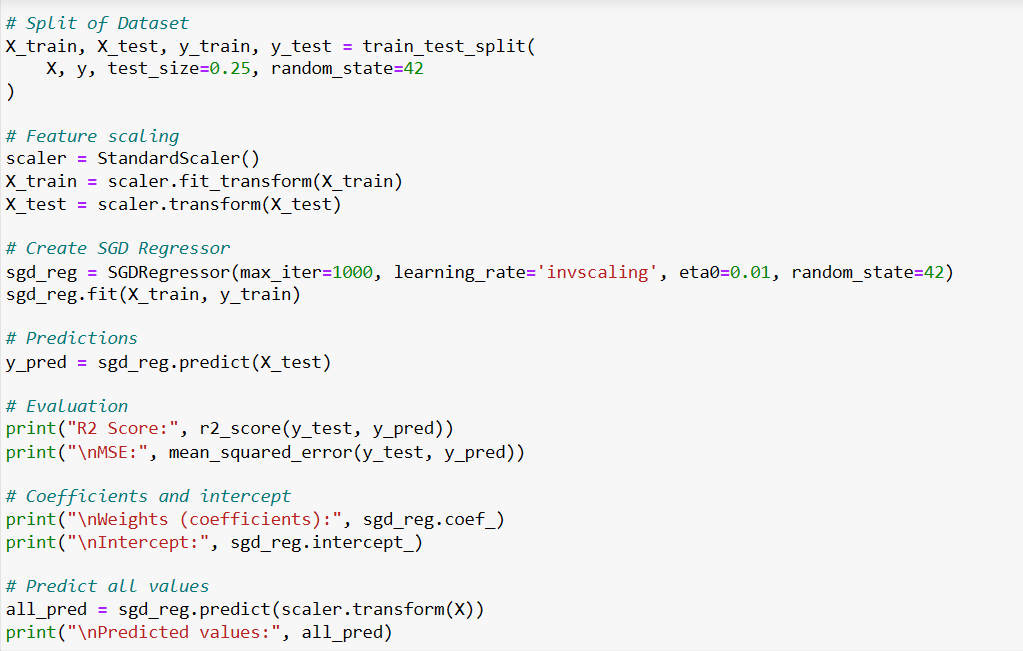
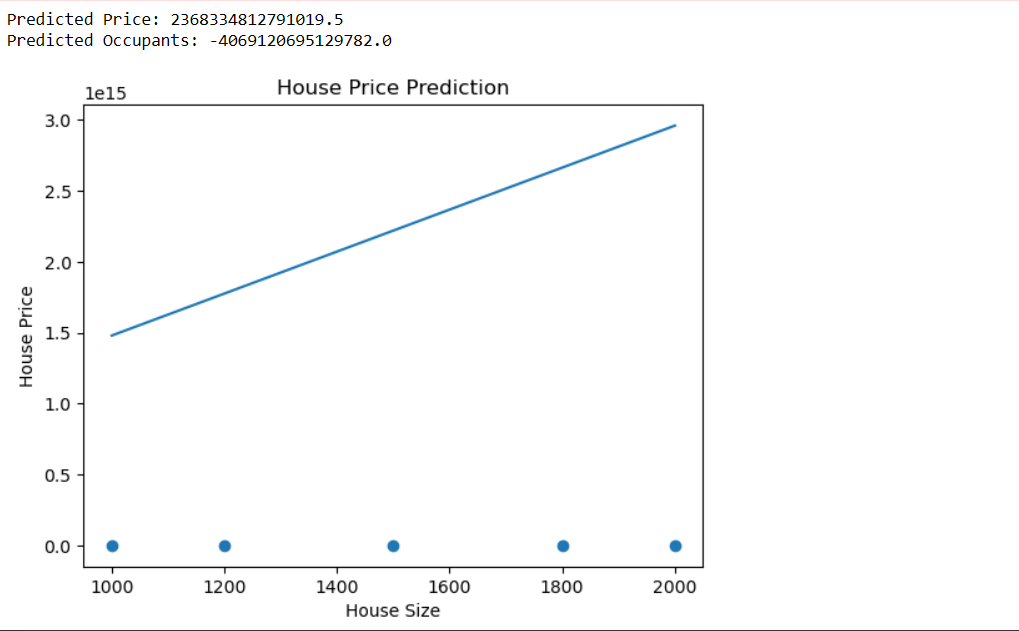
success

diff --git a/README.md b/README.md
@@ -48,67 +48,52 @@ Program to implement the multivariate linear regression model for predicting the
 
 # Ex:No 4
 #Manual Implementation using Numpy
-import numpy as np
-
-# ------------------------------
-# Step 1: Sample dataset
-# ------------------------------
-# Features: [Hours Studied, Attendance, Previous Marks]
-# Features and target
-X = np.array([
-    [2, 80, 50],
-    [3, 60, 40],
-    [5, 90, 70],
-    [7, 85, 80],
-    [9, 95, 90]
-])
-# Target: Marks Scored
-y = np.array([50, 45, 70, 80, 95])
-
-#Using scikit-learn SGDRegressor
-from sklearn.model_selection import train_test_split
+import pandas as pd
+import matplotlib.pyplot as plt
 from sklearn.linear_model import SGDRegressor
-from sklearn.preprocessing import StandardScaler
-from sklearn.metrics import r2_score, mean_squared_error
+from sklearn.multioutput import MultiOutputRegressor
 
-# Features and target
-X = np.array([
-    [2, 80, 50],
-    [3, 60, 40],
-    [5, 90, 70],
-    [7, 85, 80],
-    [9, 95, 90]
-])
-y = np.array([50, 45, 70, 80, 95])
+data = {
+    'Size': [1000, 1200, 1500, 1800, 2000],
+    'Bedrooms': [2, 2, 3, 3, 4],
+    'Price': [300000, 350000, 400000, 450000, 500000],
+    'Occupants': [2, 3, 4, 5, 6]
+}
 
-# Split of Dataset
-X_train, X_test, y_train, y_test = train_test_split(
-    X, y, test_size=0.25, random_state=42
-)
+df = pd.DataFrame(data)
 
-# Feature scaling
-scaler = StandardScaler()
-X_train = scaler.fit_transform(X_train)
-X_test = scaler.transform(X_test)
+X = df[['Size', 'Bedrooms']]
 
-# Create SGD Regressor
-sgd_reg = SGDRegressor(max_iter=1000, learning_rate='invscaling', eta0=0.01, random_state=42)
-sgd_reg.fit(X_train, y_train)
+y = df[['Price', 'Occupants']]
 
-# Predictions
-y_pred = sgd_reg.predict(X_test)
+model = MultiOutputRegressor(SGDRegressor())
 
-# Evaluation
-print("R2 Score:", r2_score(y_test, y_pred))
-print("\nMSE:", mean_squared_error(y_test, y_pred))
+model.fit(X, y)
 
-# Coefficients and intercept
-print("\nWeights (coefficients):", sgd_reg.coef_)
-print("\nIntercept:", sgd_reg.intercept_)
+prediction = model.predict([[1600, 3]])
 
-# Predict all values
-all_pred = sgd_reg.predict(scaler.transform(X))
-print("\nPredicted values:", all_pred)
+print("Predicted Price:", prediction[0][0])
+print("Predicted Occupants:", prediction[0][1])
+
+plt.scatter(df['Size'], df['Price'])
+
+plt.plot(df['Size'], model.predict(X)[:,0])
+
+plt.xlabel("House Size")
+plt.ylabel("House Price")
+plt.title("House Price Prediction")
+
+plt.show()
+
+plt.scatter(df['Size'], df['Occupants'])
+
+plt.plot(df['Size'], model.predict(X)[:,1])
+
+plt.xlabel("House Size")
+plt.ylabel("Occupants")
+plt.title("Occupants Prediction")
+
+plt.show()
 
 Developed by: Swathi P N
 RegisterNumber:  212225230279
@@ -121,8 +106,7 @@ RegisterNumber:  212225230279
 
 ![alt text](ml4.2.png)
 
-![alt text](<ml4.3 (2).png>)
-
+![alt text](ml.4.3.png)
 
 ## Result:
 Thus the program to implement the multivariate linear regression model for predicting the price of the house and number of occupants in the house with SGD regressor is written and verified using python programming.